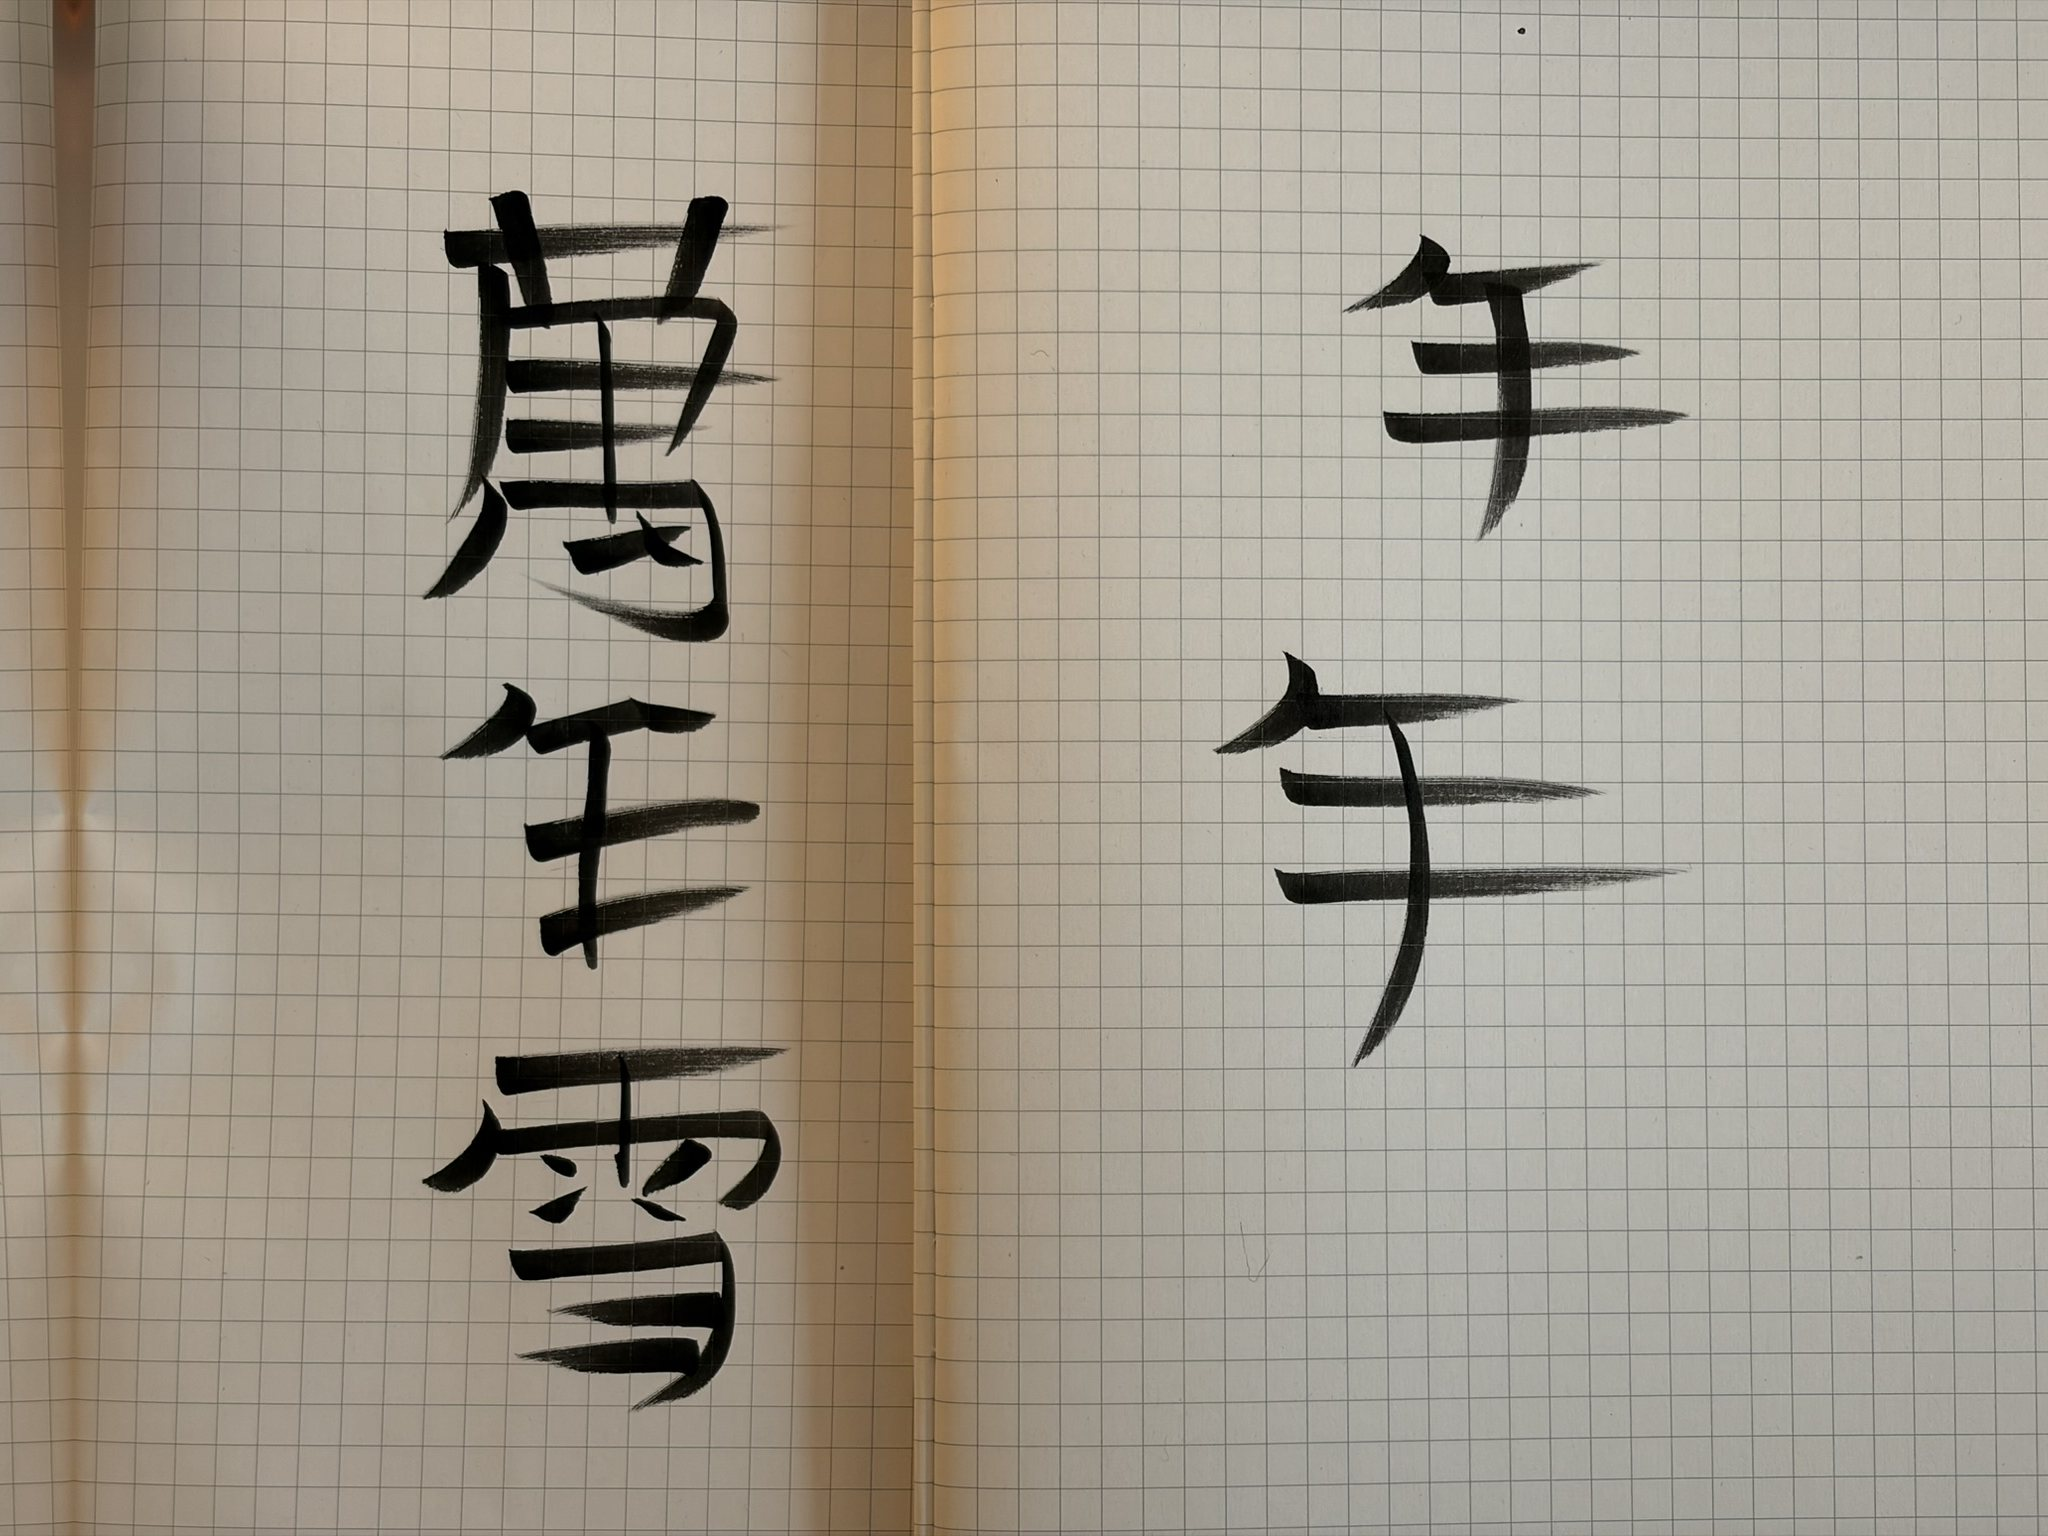
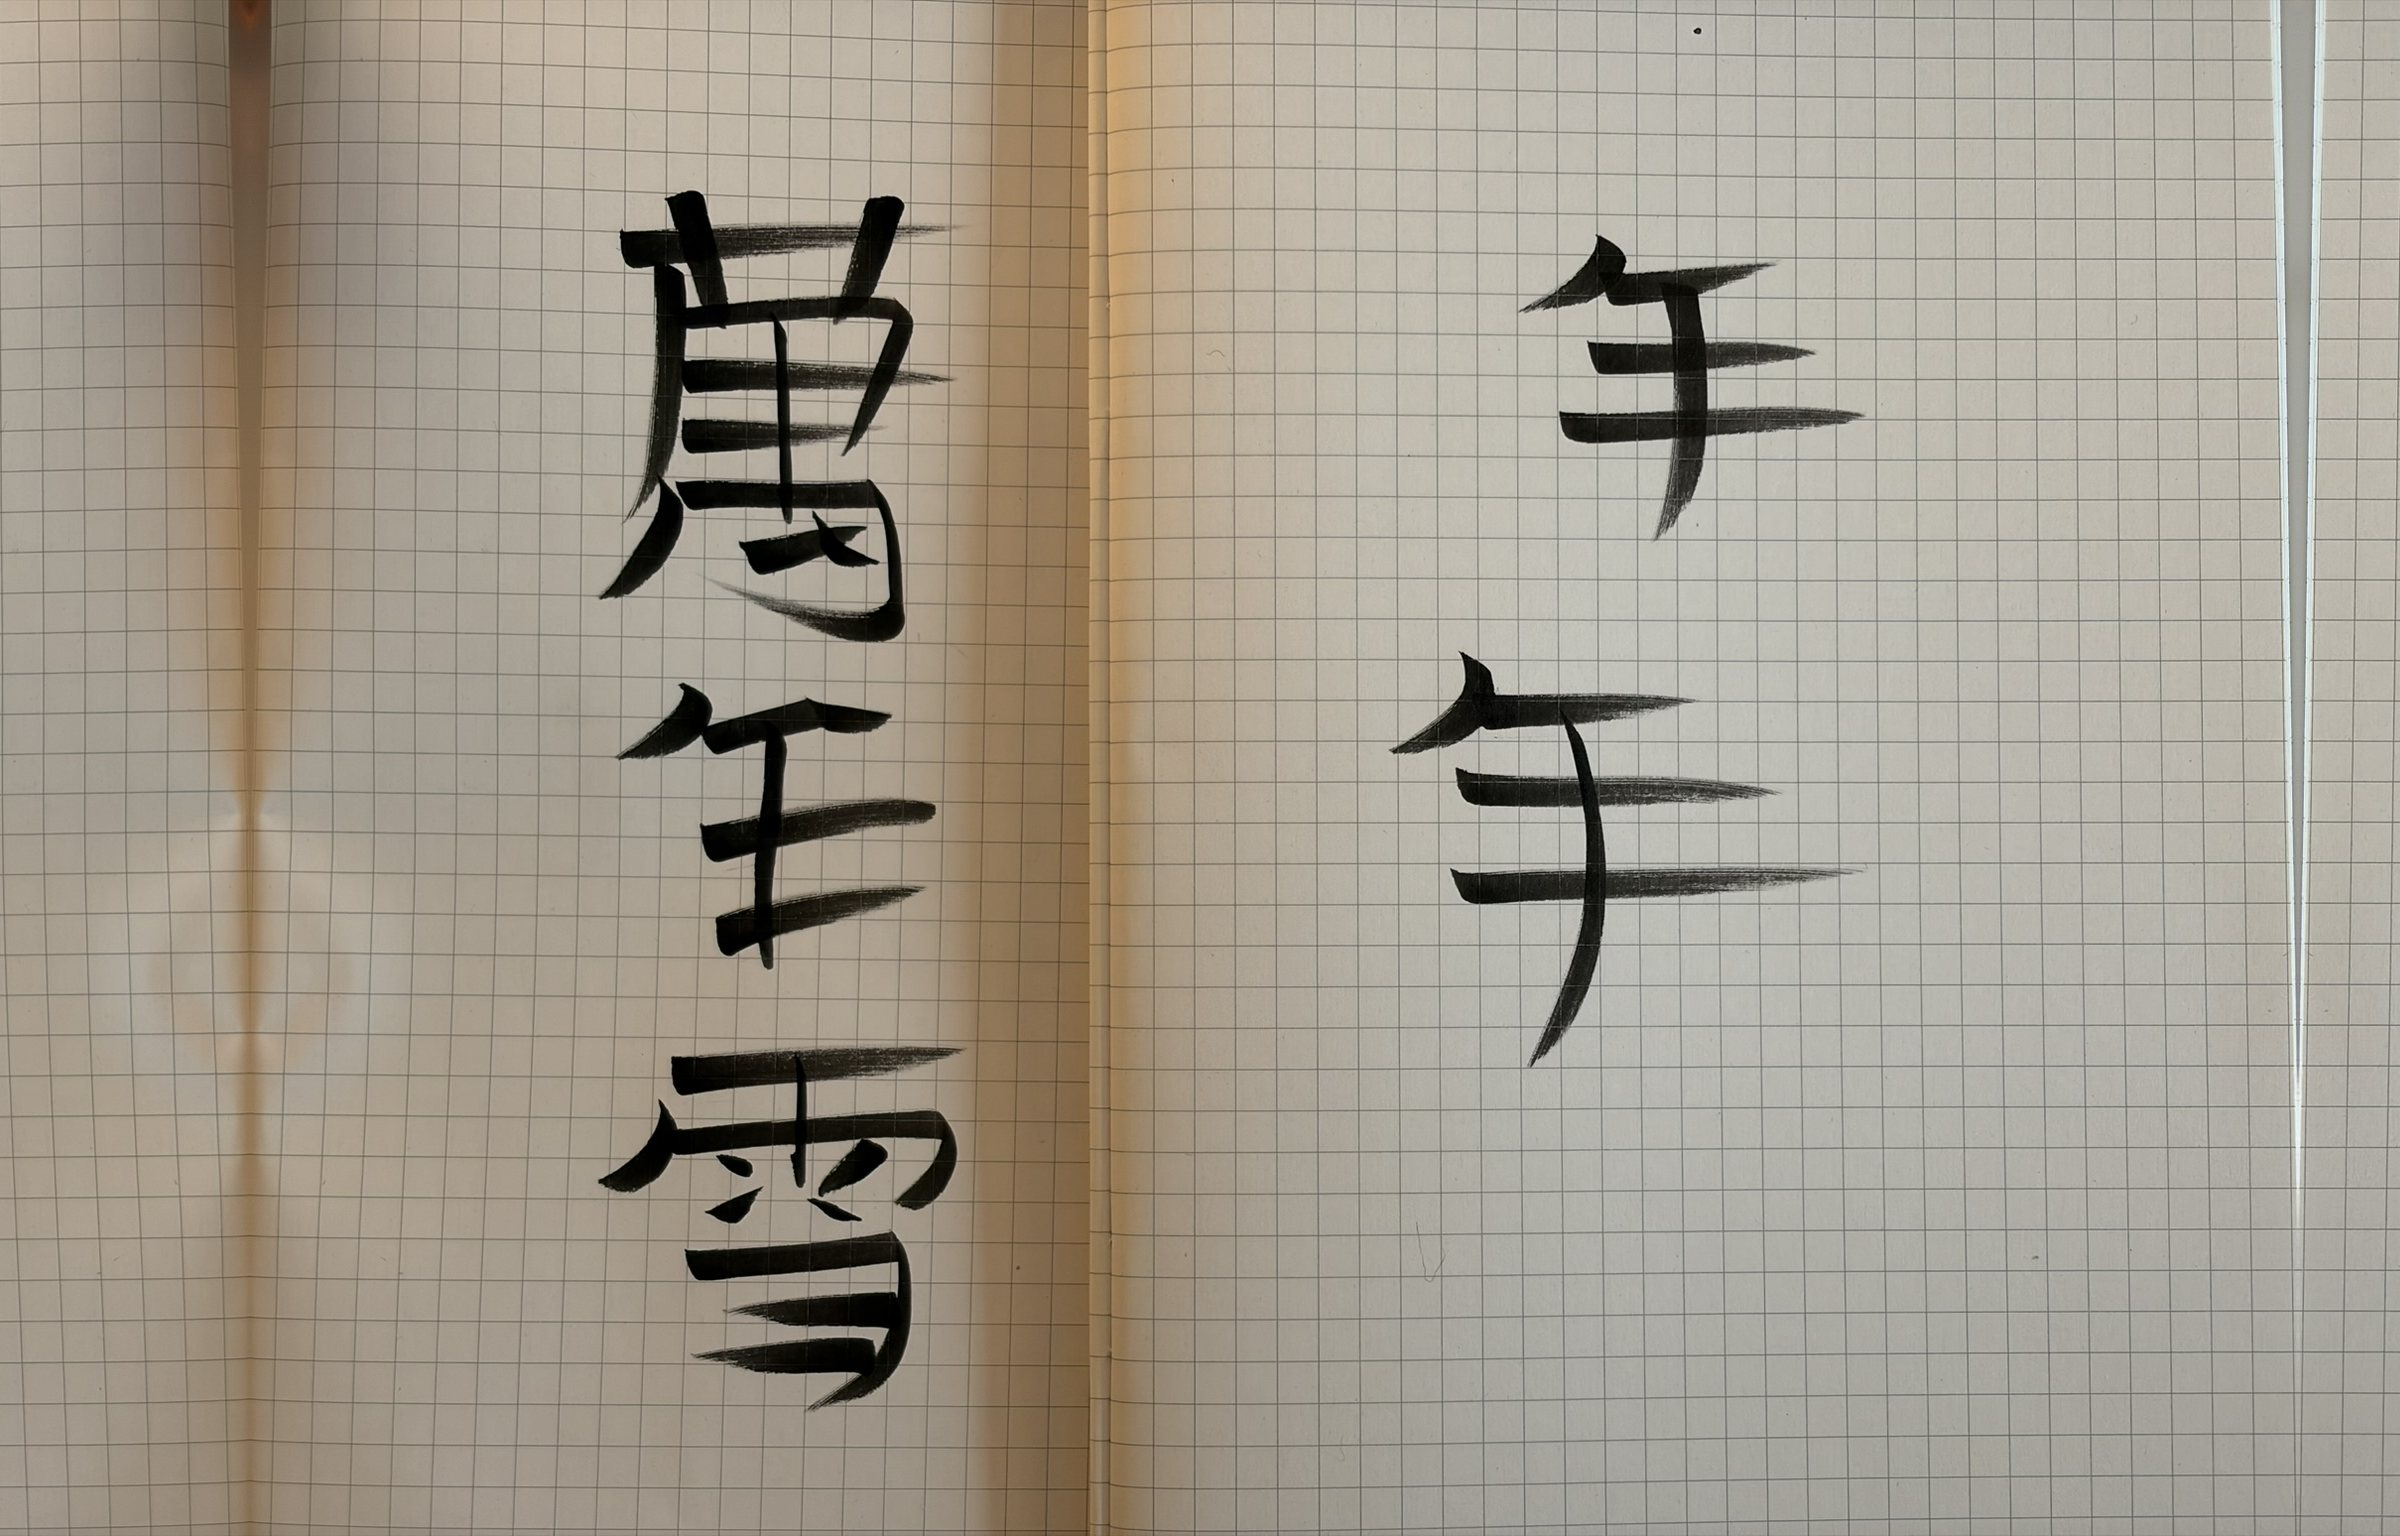
Gate/overlay tweaks: widen gate art, round corners, Services email, Gear Qty
1) access-web.jpg widened to 2400x1536 (mirror-padded sides) so a shorter windowed viewport still shows the full calligraphy under 'cover' instead of clipping it; gutter stays centred under the button. 2) card corners rounded 2px -> 6px on all three overlays. 3) Services: max@studio406.co moved below 'Contact for Quote'. 4) Gear: dropped the top Item/Qty row; 'Qty' now rides the Microphones line, right-aligned over the quantity column and clear of the close X.

diff --git a/studio/css/styles.css b/studio/css/styles.css
@@ -144,7 +144,7 @@ a:hover { opacity: 0.7; }
   background: var(--card-bg);
   backdrop-filter: blur(6px);
   color: var(--ink);
-  border-radius: 2px;
+  border-radius: 6px;
   padding: clamp(1.5rem, 3vw, 2.25rem) clamp(1.5rem, 3.5vw, 2.5rem);
   margin: 0 auto clamp(1rem, 3vh, 2.5rem);
   box-shadow: 0 1.5rem 4rem rgba(0, 0, 0, 0.45);
@@ -170,6 +170,8 @@ a:hover { opacity: 0.7; }
   padding-right: 3.25rem;  /* clear the absolute-positioned close X */
 }
 .card-email {
+  display: block;
+  margin-top: 0.15rem;
   font-size: 0.9rem;
   font-weight: 600;
   white-space: nowrap;
@@ -241,15 +243,20 @@ a:hover { opacity: 0.7; }
    GEAR LIST
    ============================================================ */
 
-.gear-head {
+/* The first category clears the close X; "Qty" rides on the Microphones line,
+   right-aligned directly over the quantity column. */
+.gear-cat--first { margin-top: 2rem; }
+.gear-cat-head {
   display: flex;
+  align-items: baseline;
   justify-content: space-between;
+  gap: 1rem;
+}
+.qty-head {
   font-weight: 600;
   font-size: 0.85rem;
-  padding-bottom: 0.6rem;
-  padding-right: 3.25rem;  /* clear the absolute-positioned close X */
-  margin-bottom: 1rem;
-  border-bottom: 1px solid #c8c6c2;
+  color: #555;
+  padding-right: 0.25rem;  /* match the qty cells' right padding */
 }
 
 .gear-cat { margin-bottom: 2.25rem; }

diff --git a/studio/gear-list.html b/studio/gear-list.html
@@ -26,9 +26,11 @@
 
   <main class="wrap">
     <a class="card-close" href="index.html" aria-label="Close">&times;</a>
-    <div class="gear-head"><span>Item</span><span>Qty</span></div>
-    <section class="gear-cat">
-      <h2>Microphones</h2>
+    <section class="gear-cat gear-cat--first">
+      <div class="gear-cat-head">
+        <h2>Microphones</h2>
+        <span class="qty-head">Qty</span>
+      </div>
       <table class="gear-table"><tbody>
         <tr><td>Milab VIP-60</td><td class="qty">1</td></tr>
         <tr><td>Milab VM-44</td><td class="qty">2</td></tr>

diff --git a/studio/service-menu.html b/studio/service-menu.html
@@ -28,9 +28,9 @@
     <a class="card-close" href="index.html" aria-label="Close">&times;</a>
     <div class="card-head">
       <h1 class="page-title">Services</h1>
-      <a class="card-email" href="mailto:max@studio406.co">max@studio406.co</a>
     </div>
     <a class="quote-label" href="mailto:max@studio406.co">Contact for Quote</a>
+    <a class="card-email" href="mailto:max@studio406.co">max@studio406.co</a>
 
     <div class="service-list">
       <p class="service-name">Production</p>
